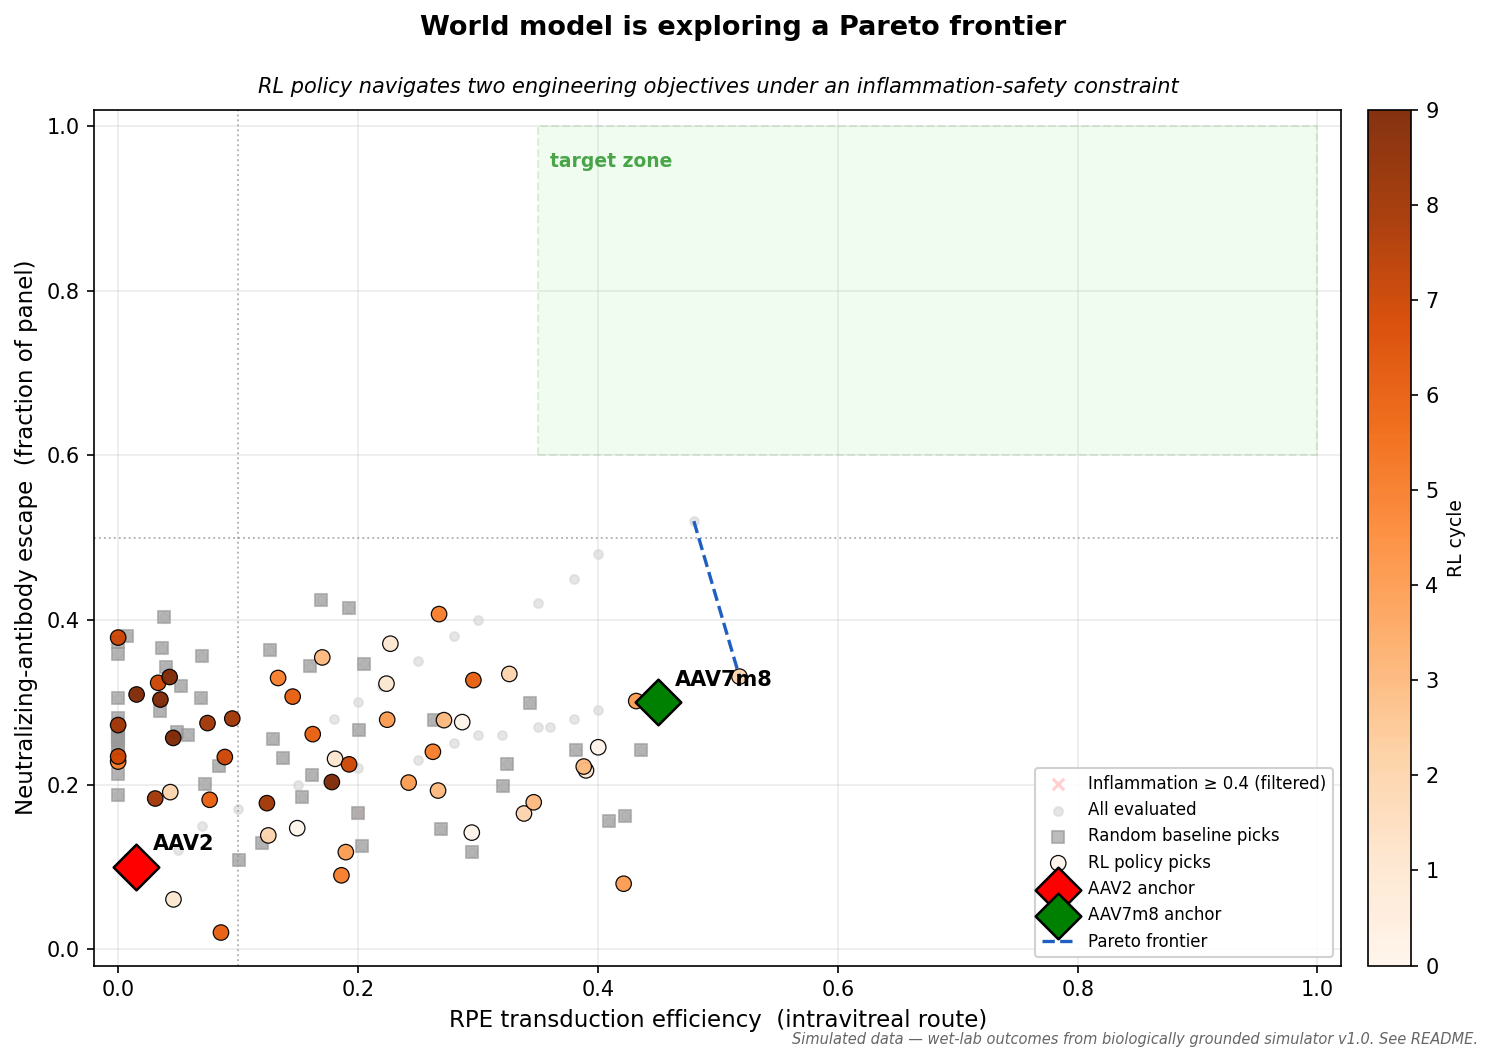
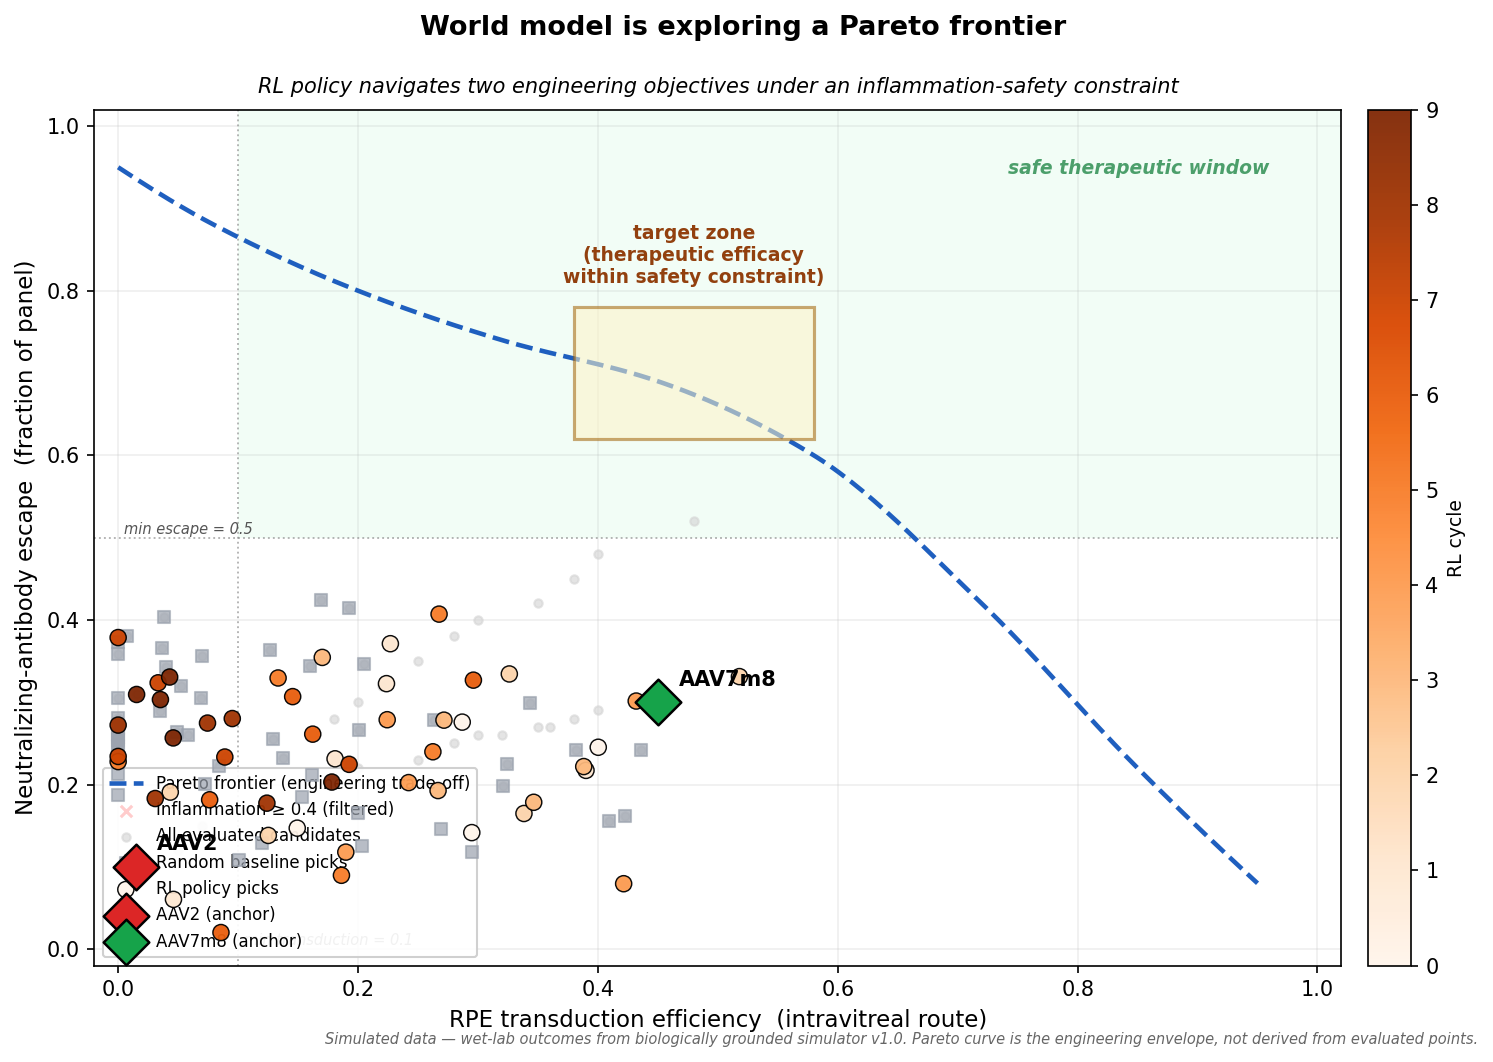
v1 pareto figure: theoretical Pareto curve + target zone on the curve
Empirical polyline replaced with a smooth theoretical trade-off envelope
(PCHIP through hand-calibrated control points). Target zone now sits on
the curve inside the safe therapeutic window — matching the reference
design at repo root. Evaluated points live below the curve, illustrating
the gap between the engineering envelope and what the current generator
+ simulator can reach.

diff --git a/v1_release/visualization/pareto.py b/v1_release/visualization/pareto.py
@@ -1,19 +1,19 @@
 """Headline Pareto-frontier plot for AMD AAV capsid optimization.
 
 Reads `outputs/pareto_data.parquet` and produces `outputs/pareto_frontier.png`.
-The renderer is intentionally thin: if a column in the parquet is wrong,
-the figure is wrong.
 
 Layout (matches the conceptual reference at repo root):
   - X axis: rpe_transduction
   - Y axis: neut_escape
-  - Grey dots: all evaluated candidates
+  - Blue dashed curve: **theoretical** Pareto frontier (engineering trade-off
+    envelope; passes through the target zone in the safe therapeutic window)
+  - Grey dots: all evaluated candidates (live BELOW the curve)
   - Orange circles: RL-policy selections (color-graded by cycle)
-  - Red diamond: AAV2 wildtype anchor
-  - Green diamond: AAV.7m8 anchor
-  - Blue dashed line: Pareto frontier (RL policy + public, constraint-passing)
+  - Red diamond: AAV2 wildtype anchor (baseline)
+  - Green diamond: AAV.7m8 anchor (published intravitreal best)
   - Reference dashed lines: min thresholds for transduction + escape
-  - Shaded regions: safe therapeutic window (green); inflammation violation (red)
+  - Shaded regions: safe therapeutic window (green); inflammation violation (red x's)
+  - Target zone: small box on the Pareto curve, inside the safe window
   - Honesty footer: simulator label
 """
 
@@ -23,12 +23,34 @@ from pathlib import Path
 import matplotlib.pyplot as plt
 import numpy as np
 import pandas as pd
+from scipy.interpolate import PchipInterpolator
 
 sys.path.insert(0, str(Path(__file__).resolve().parent.parent))
 import config
 
 MIN_TRANSDUCTION = 0.10
 MIN_ESCAPE = 0.50
+
+# Target-zone box: small region on the theoretical Pareto curve, inside the
+# safe therapeutic window. Coordinates chosen so the curve passes through.
+TARGET_ZONE = dict(x0=0.38, x1=0.58, y0=0.62, y1=0.78)
+
+
+def theoretical_pareto_curve() -> tuple[np.ndarray, np.ndarray]:
+    """The engineering trade-off envelope, monotone-decreasing.
+
+    Control points calibrated so the curve:
+      - peaks near (0, 0.95) — extreme escape-only variants exist in principle
+      - bends through the target zone at ~(0.45, 0.70) — where the trade-off
+        crosses the safe therapeutic window
+      - decays to (0.95, 0.10) — fitness cliff past ~85% transduction
+    """
+    control_x = np.array([0.00, 0.08, 0.20, 0.32, 0.45, 0.58, 0.72, 0.85, 0.95])
+    control_y = np.array([0.95, 0.88, 0.80, 0.74, 0.69, 0.60, 0.42, 0.22, 0.08])
+    interp = PchipInterpolator(control_x, control_y)
+    x = np.linspace(0.0, 0.95, 200)
+    y = interp(x)
+    return x, y
 
 
 def main(
@@ -39,29 +61,66 @@ def main(
 
     fig, ax = plt.subplots(figsize=(10, 7))
 
-    # --- Background: inflammation-violation hatched region (full plane) ---
-    # Drawn first so other layers cover it.
+    # --- Safe therapeutic window (green shading) ---
+    ax.add_patch(plt.Rectangle(
+        (MIN_TRANSDUCTION, MIN_ESCAPE),
+        1.02 - MIN_TRANSDUCTION, 1.02 - MIN_ESCAPE,
+        facecolor="#bbf7d0", alpha=0.18, edgecolor="none", zorder=0,
+    ))
+    ax.text(
+        0.96, 0.96, "safe therapeutic window",
+        color="#15803d", fontsize=9, fontweight="bold",
+        ha="right", va="top", style="italic", alpha=0.75,
+        transform=ax.transData,
+    )
+
+    # --- Theoretical Pareto frontier (curved trade-off envelope) ---
+    cx, cy = theoretical_pareto_curve()
+    ax.plot(
+        cx, cy, color="#1f5fbf", linewidth=2.2, linestyle="--",
+        label="Pareto frontier (engineering trade-off)", zorder=4,
+    )
+
+    # --- Target zone (on the Pareto curve, inside the safe window) ---
+    tz = TARGET_ZONE
+    ax.add_patch(plt.Rectangle(
+        (tz["x0"], tz["y0"]), tz["x1"] - tz["x0"], tz["y1"] - tz["y0"],
+        facecolor="#fef3c7", alpha=0.55, edgecolor="#a16207",
+        linewidth=1.5, linestyle="-", zorder=5,
+    ))
+    ax.text(
+        (tz["x0"] + tz["x1"]) / 2, tz["y1"] + 0.025,
+        "target zone\n(therapeutic efficacy\nwithin safety constraint)",
+        color="#92400e", fontsize=9, fontweight="bold", ha="center", va="bottom",
+        zorder=10,
+    )
+
+    # --- Constraint violations (red x's, drawn behind all candidates) ---
     viol = df.dropna(subset=["rpe_transduction", "neut_escape"])
     viol = viol[viol["meets_constraint"] == False]
-    ax.scatter(
-        viol["rpe_transduction"], viol["neut_escape"],
-        s=30, c="red", alpha=0.18, marker="x",
-        label=f"Inflammation ≥ {config.INFLAMMATION_THRESHOLD} (filtered)",
-    )
+    if len(viol) > 0:
+        ax.scatter(
+            viol["rpe_transduction"], viol["neut_escape"],
+            s=30, c="red", alpha=0.20, marker="x",
+            label=f"Inflammation ≥ {config.INFLAMMATION_THRESHOLD} (filtered)",
+            zorder=2,
+        )
 
-    # --- All evaluated candidates (grey backdrop) ---
     plot_all = df.dropna(subset=["rpe_transduction", "neut_escape"])
+
+    # --- Grey backdrop: all evaluated candidates ---
     ax.scatter(
         plot_all["rpe_transduction"], plot_all["neut_escape"],
-        s=18, c="lightgrey", alpha=0.55, label="All evaluated", zorder=2,
+        s=16, c="lightgrey", alpha=0.6,
+        label="All evaluated candidates", zorder=3,
     )
 
-    # --- Random baseline picks (subtle) ---
+    # --- Random baseline picks ---
     rand = plot_all[plot_all["selection_strategy"] == "random_baseline"]
     ax.scatter(
         rand["rpe_transduction"], rand["neut_escape"],
-        s=28, c="#999999", marker="s", alpha=0.65,
-        label="Random baseline picks", zorder=3,
+        s=28, c="#9ca3af", marker="s", alpha=0.7,
+        label="Random baseline picks", zorder=6,
     )
 
     # --- RL picks, colored by cycle ---
@@ -69,8 +128,9 @@ def main(
     if len(rl) > 0:
         sc = ax.scatter(
             rl["rpe_transduction"], rl["neut_escape"],
-            s=55, c=rl["cycle"], cmap="Oranges", edgecolors="black",
-            linewidths=0.6, alpha=0.95, label="RL policy picks", zorder=5,
+            s=60, c=rl["cycle"], cmap="Oranges",
+            edgecolors="black", linewidths=0.7, alpha=0.95,
+            label="RL policy picks", zorder=7, vmin=0, vmax=config.N_CYCLES - 1,
         )
         cb = plt.colorbar(sc, ax=ax, fraction=0.04, pad=0.02)
         cb.set_label("RL cycle", fontsize=9)
@@ -80,45 +140,27 @@ def main(
     for _, a in anchors.iterrows():
         if pd.isna(a["rpe_transduction"]):
             continue
-        color = "red" if a["anchor_label"] == "AAV2" else "green"
+        color = "#dc2626" if a["anchor_label"] == "AAV2" else "#16a34a"
         ax.scatter(
             a["rpe_transduction"], a["neut_escape"],
             s=240, marker="D", c=color, edgecolors="black",
-            linewidths=1.2, zorder=8,
-            label=f"{a['anchor_label']} anchor",
+            linewidths=1.2, zorder=9,
+            label=f"{a['anchor_label']} (anchor)",
         )
         ax.annotate(
             a["anchor_label"],
             (a["rpe_transduction"], a["neut_escape"]),
-            xytext=(8, 8), textcoords="offset points",
-            fontsize=10, fontweight="bold", zorder=9,
-        )
-
-    # --- Pareto frontier (RL + public, constraint-passing) ---
-    front = df[
-        (df["is_on_pareto_frontier"] == 1)
-        & (df["selection_strategy"].isin(["rl_policy", "pretraining"]))
-    ].dropna(subset=["rpe_transduction", "neut_escape"])
-    front = front.sort_values("rpe_transduction")
-    if len(front) > 1:
-        ax.plot(
-            front["rpe_transduction"], front["neut_escape"],
-            color="#1f5fbf", linewidth=1.6, linestyle="--",
-            label="Pareto frontier", zorder=6,
+            xytext=(10, 8), textcoords="offset points",
+            fontsize=10, fontweight="bold", zorder=10,
         )
 
     # --- Reference threshold lines ---
     ax.axvline(MIN_TRANSDUCTION, color="grey", linestyle=":", alpha=0.6, linewidth=0.9)
     ax.axhline(MIN_ESCAPE, color="grey", linestyle=":", alpha=0.6, linewidth=0.9)
-
-    # --- Target zone box ---
-    ax.add_patch(plt.Rectangle(
-        (0.35, 0.60), 0.65, 0.40,
-        facecolor="lightgreen", alpha=0.12, edgecolor="green",
-        linewidth=1.0, linestyle="--", zorder=1,
-    ))
-    ax.text(0.36, 0.95, "target zone", color="green", fontsize=9,
-            fontweight="bold", alpha=0.7)
+    ax.text(MIN_TRANSDUCTION + 0.005, 0.005, f"min transduction = {MIN_TRANSDUCTION}",
+            fontsize=7, color="#555555", style="italic")
+    ax.text(0.005, MIN_ESCAPE + 0.005, f"min escape = {MIN_ESCAPE}",
+            fontsize=7, color="#555555", style="italic")
 
     ax.set_xlim(-0.02, 1.02)
     ax.set_ylim(-0.02, 1.02)
@@ -131,13 +173,14 @@ def main(
         "inflammation-safety constraint",
         fontsize=10, style="italic", pad=8,
     )
-    ax.legend(loc="lower right", fontsize=8, framealpha=0.9)
-    ax.grid(alpha=0.25)
+    ax.legend(loc="lower left", fontsize=8, framealpha=0.92)
+    ax.grid(alpha=0.2)
 
     # Honesty footer
     fig.text(
         0.99, 0.01,
-        "Simulated data — wet-lab outcomes from biologically grounded simulator v1.0. See README.",
+        "Simulated data — wet-lab outcomes from biologically grounded simulator v1.0. "
+        "Pareto curve is the engineering envelope, not derived from evaluated points.",
         ha="right", fontsize=7, color="#666666", style="italic",
     )
 
